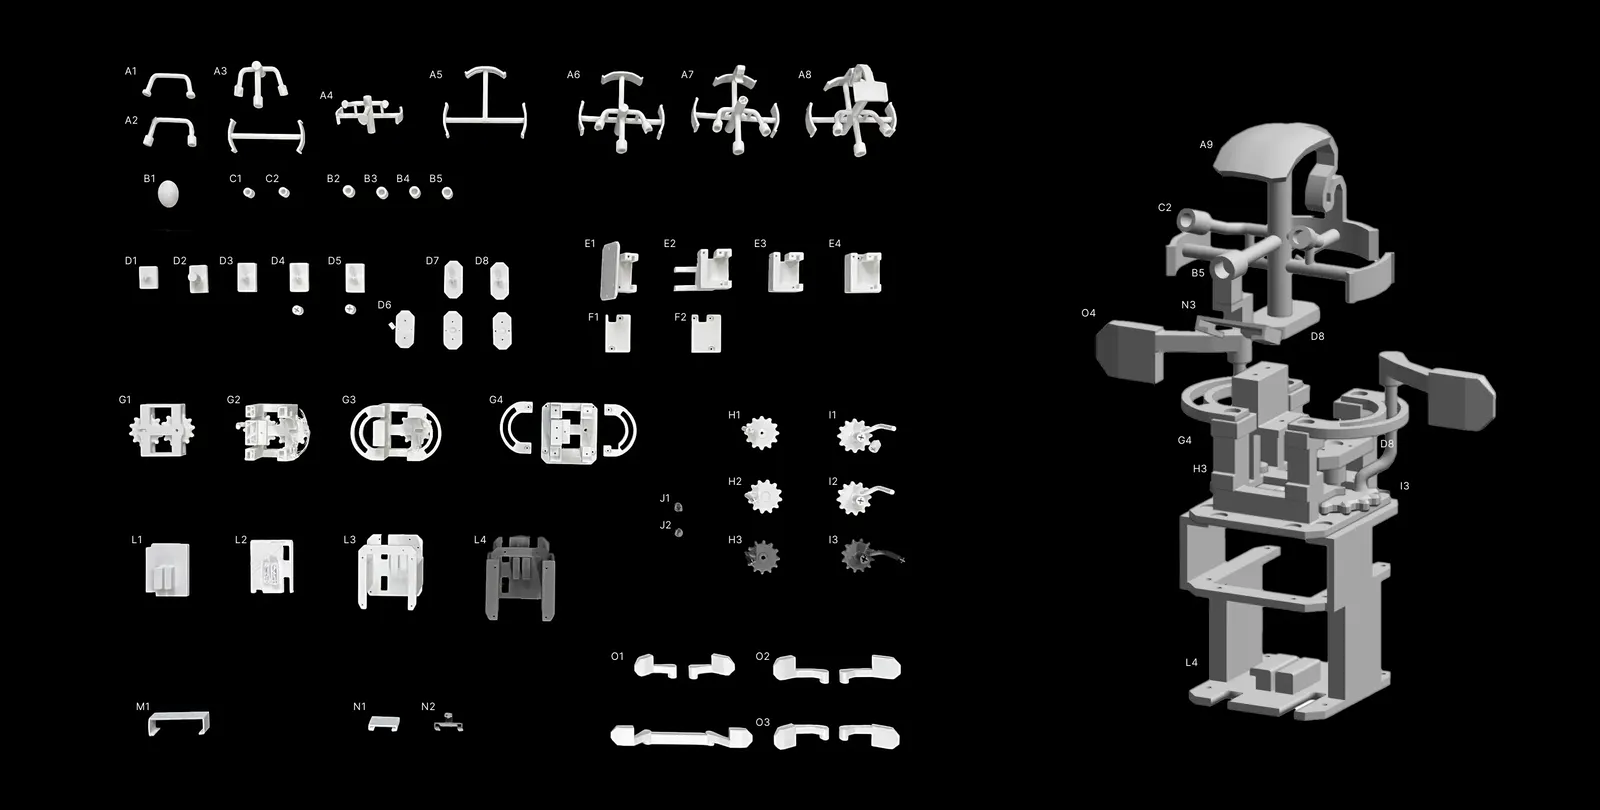
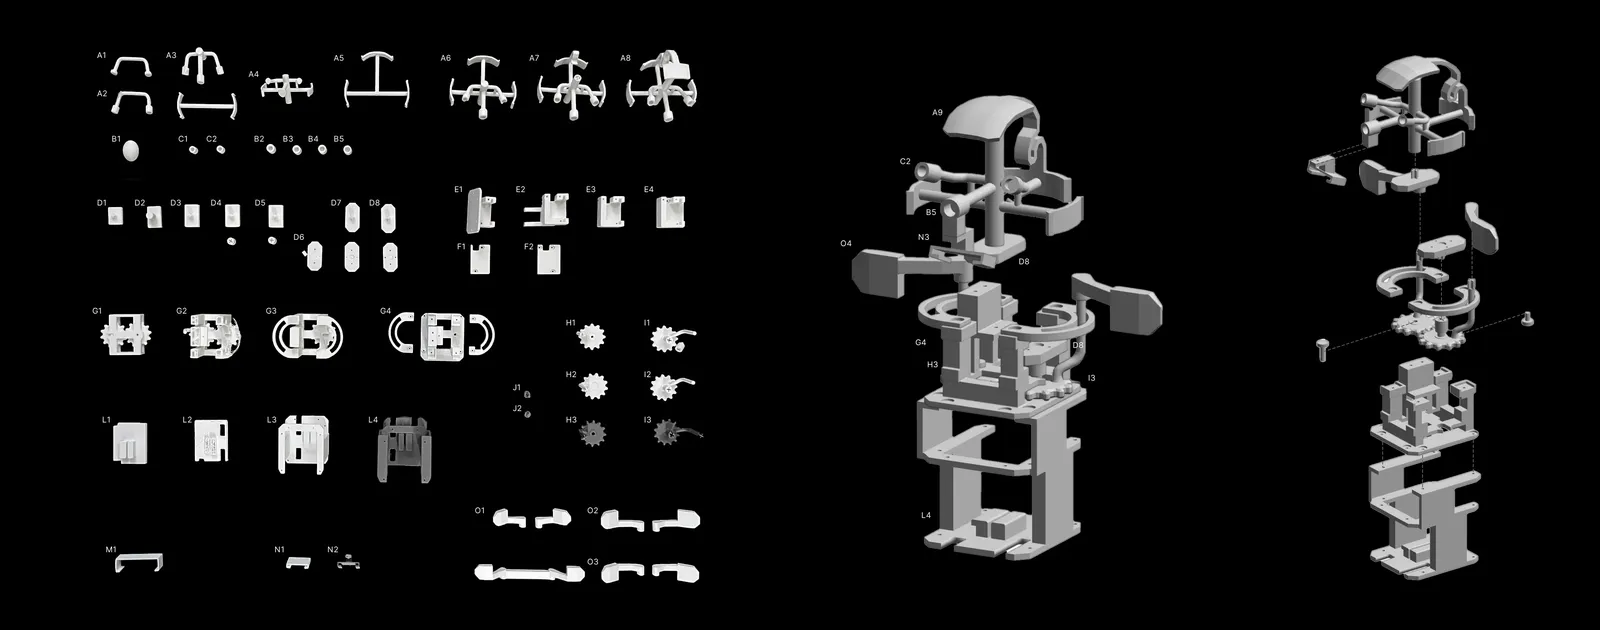
Piko: a line-drawn diagram of why the body, and the exploded skeleton beside its iterations
Claude-Session: https://claude.ai/code/session_01CEPBUUH34J322VZt47wJPd

diff --git a/src/styles/detail.css b/src/styles/detail.css
@@ -147,6 +147,25 @@ html.js .scene.on .drawing text { opacity: 1 }
 html.js .scene.on .drawing .obj:nth-of-type(1) path { transition-delay: .7s }
 html.js .scene.on .drawing .obj:nth-of-type(2) path { transition-delay: 1.1s }
 html.js .scene.on .drawing .obj:nth-of-type(3) path { transition-delay: 1.5s }
+/* The reasons diagram reads left to right on wide screens and top to bottom on phones, one step after another. */
+.drawing.reasons { width: min(100%, 1000px) }
+.drawing.reasons.narrow-only { display: none; width: min(100%, 340px) }
+@media (max-width: 640px) { .drawing.reasons.wide-only { display: none } .drawing.reasons.narrow-only { display: block } }
+.reasons text { font-size: 14px }
+.reasons .term { font-family: var(--font-line); font-size: 30px; fill: var(--fg); font-weight: 300 }
+.reasons .aside { font-size: 13px }
+.reasons .step { font-size: 17px; fill: var(--fg) }
+.reasons.wide-only .term, .reasons.wide-only .aside, .reasons.wide-only .step { text-anchor: start }
+.reasons.narrow-only .term { font-size: 28px }
+html.js .scene.on .reasons .st1 path { transition-delay: .3s }
+html.js .scene.on .reasons .st1 text { transition-delay: 1.1s }
+html.js .scene.on .reasons .st2 path { transition-delay: 1.5s }
+html.js .scene.on .reasons .st2 text { transition-delay: 2.1s }
+html.js .scene.on .reasons .st3 path { transition-delay: 2.6s }
+html.js .scene.on .reasons .st4 path { transition-delay: 3.2s }
+html.js .scene.on .reasons .st4 text { transition-delay: 3.4s }
+html.js .scene.on .reasons .st4 text:nth-of-type(2) { transition-delay: 3.8s }
+html.js .scene.on .reasons .st4 text:nth-of-type(3) { transition-delay: 4.2s }
 /* The balance tips toward the person once it has drawn: 8° on the beam, the pans riding its ends. */
 .balance .beam, .balance .pan { transform-box: view-box; transform-origin: 300px 60px; transition: transform 2.2s cubic-bezier(.45, 0, .2, 1) 1.8s }
 .scene.on .balance .beam { transform: rotate(-8deg) }

diff --git a/src/content.config.ts b/src/content.config.ts
@@ -58,7 +58,7 @@ const details = defineCollection({
       cutout: z.boolean().default(false), // a cut-out with a transparent ground: no frame, no shadow
       icon: z.string().optional(), // drawn where the line says [icon]
       backdrop: z.enum(['desk']).optional(), // a line drawing behind the words
-      drawing: z.enum(['balance']).optional(), // a line drawing above the words
+      drawing: z.enum(['balance', 'reasons']).optional(), // a line drawing above the words
     })),
     colophon: z.array(z.object({ k: z.string(), v: z.string(), href: z.string().optional() })),
     next: z.string().optional(),

diff --git a/scripts/piko-inside.py b/scripts/piko-inside.py
@@ -1,0 +1,13 @@
+# Builds public/media/works/piko/inside.webp: the iterations sheet (17.webp) with the exploded skeleton set on its right.
+from PIL import Image
+src = 'public/Assets/Works/Piko/'
+sheet = Image.open(src + '17.webp').convert('RGB')
+part = Image.open(src + 'skeleton-exploded.png').convert('RGBA')
+h = round(sheet.height * .9)
+part = part.resize((round(part.width * h / part.height), h), Image.LANCZOS)
+gap = 60
+out = Image.new('RGB', (sheet.width + part.width + gap * 2, sheet.height), 'black')
+out.paste(sheet, (0, 0))
+out.paste(part, (sheet.width + gap, (sheet.height - h) // 2), part)
+out.thumbnail((1600, 1600), Image.LANCZOS)
+out.save('public/media/works/piko/inside.webp', quality=80)

diff --git a/src/content/details/piko.md b/src/content/details/piko.md
@@ -20,6 +20,9 @@ scenes:
     pair: true
     alt: "Concept sketches of a fuzzy companion worn on the shoulder and chest"
     year: "2025"
+  - line: "On the body, it gets to know you."
+    drawing: reasons
+    year: "2025"
   - lead: "Meet Piko,"
     line: "a wearable AI companion"
     big: true
